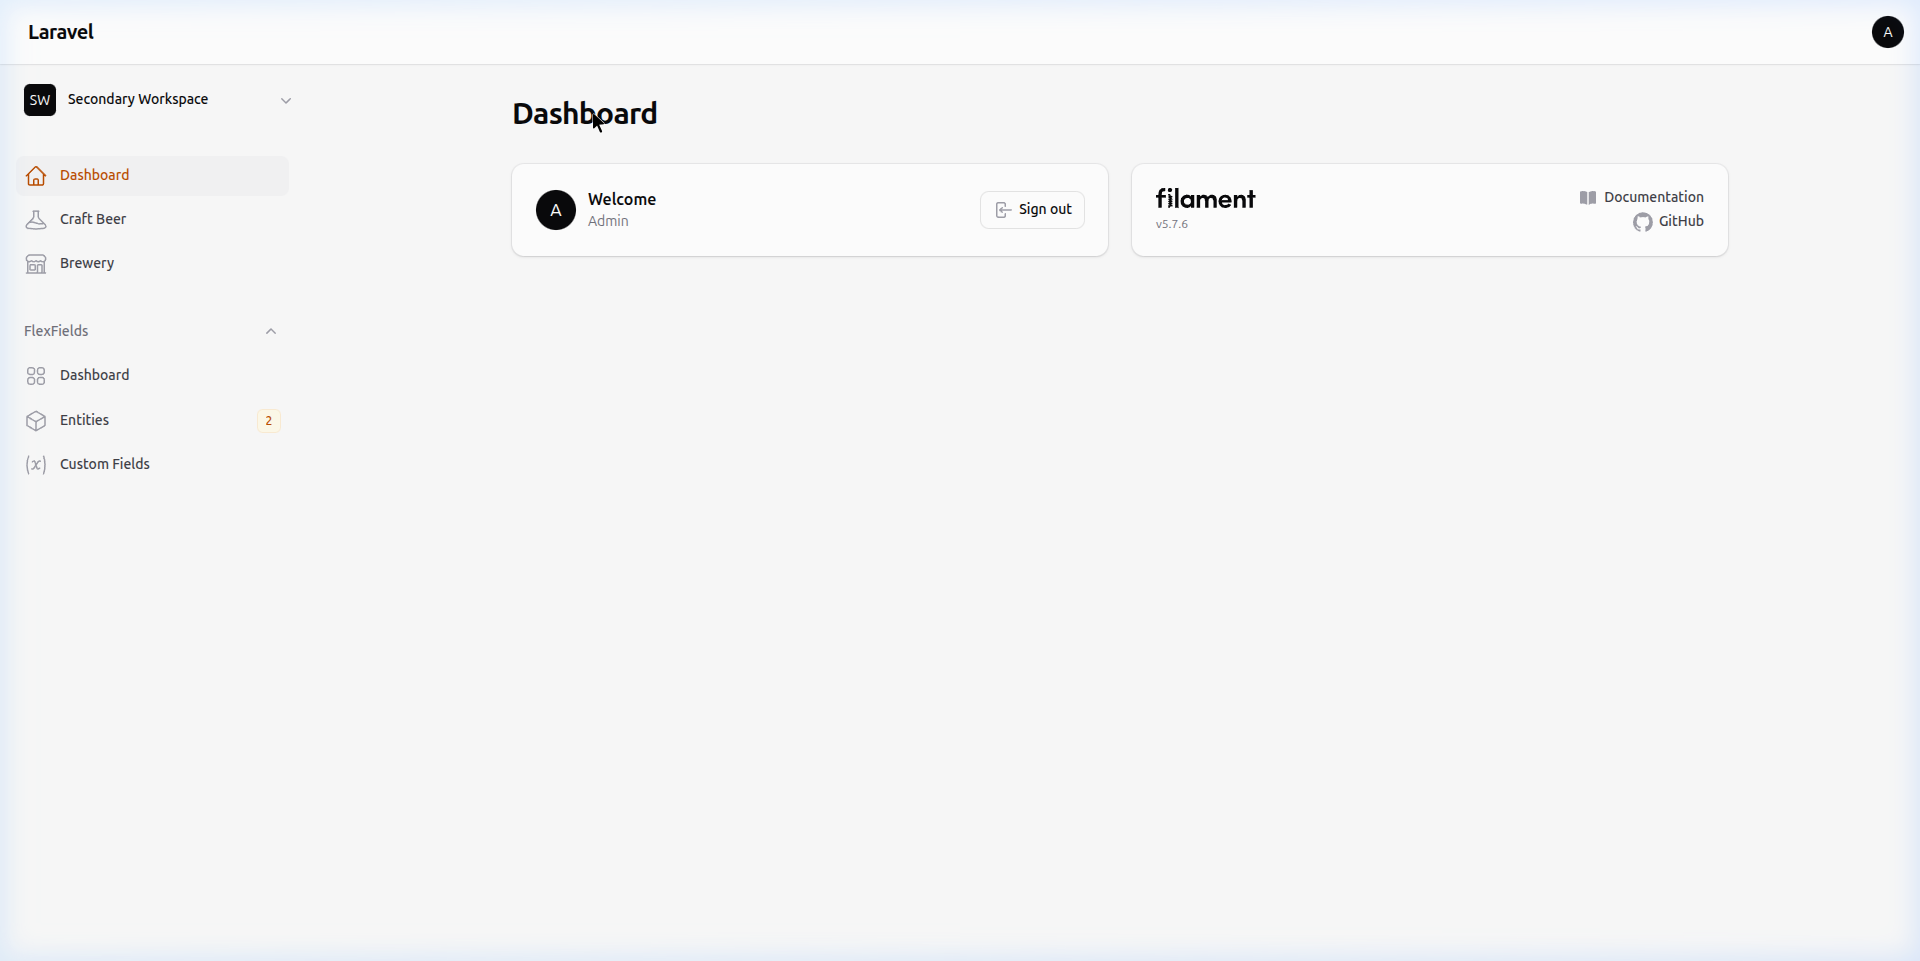
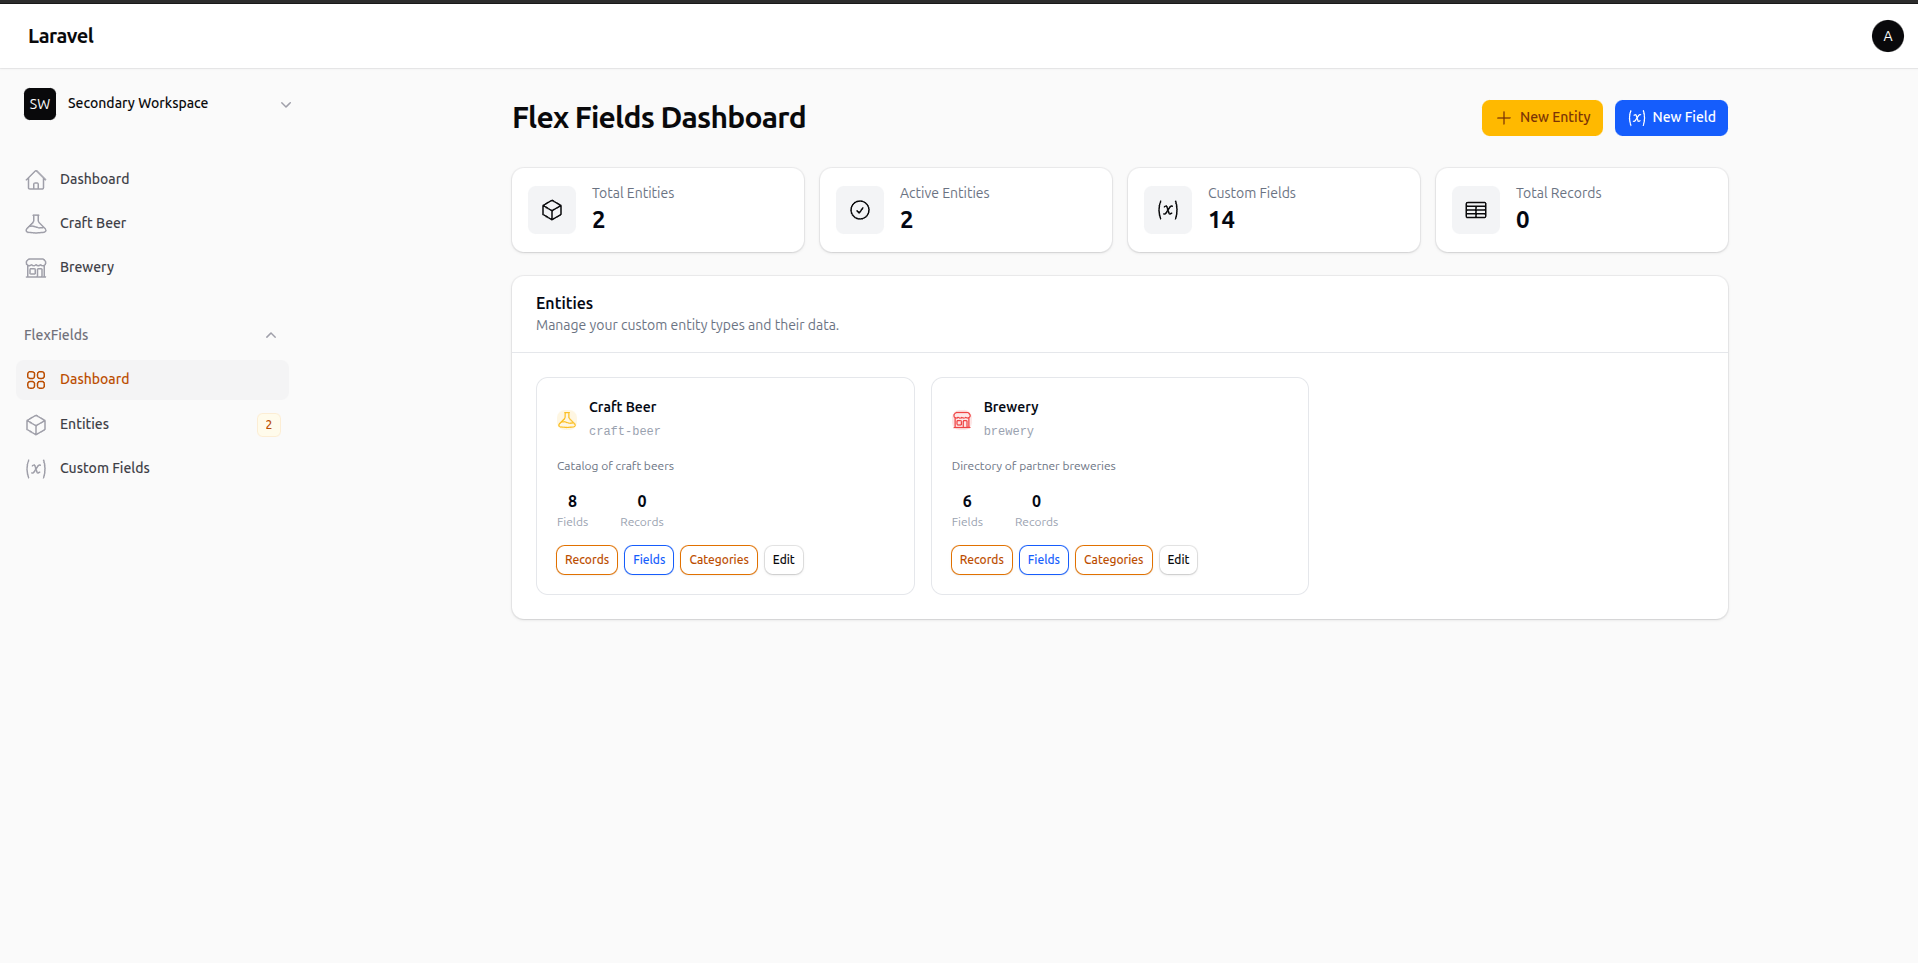
fix: prevent tenancy exceptions in FieldCache during console commands

diff --git a/src/Support/FieldCache.php b/src/Support/FieldCache.php
@@ -108,10 +108,16 @@ class FieldCache
         $prefix = config('flex-fields.cache.prefix', 'flex_fields_');
         $tenantKey = '';
 
-        if (class_exists(Filament::class) && Filament::hasTenancy()) {
-            $tenant = Filament::getTenant();
-            if ($tenant) {
-                $tenantKey = 't' . ($tenant->getKey() ?? '') . '_';
+        if (class_exists(Filament::class)) {
+            try {
+                if (Filament::hasTenancy()) {
+                    $tenant = Filament::getTenant();
+                    if ($tenant) {
+                        $tenantKey = 't' . ($tenant->getKey() ?? '') . '_';
+                    }
+                }
+            } catch (\Exception $e) {
+                // Ignore NoDefaultPanelSetException in console/API contexts
             }
         }
 
